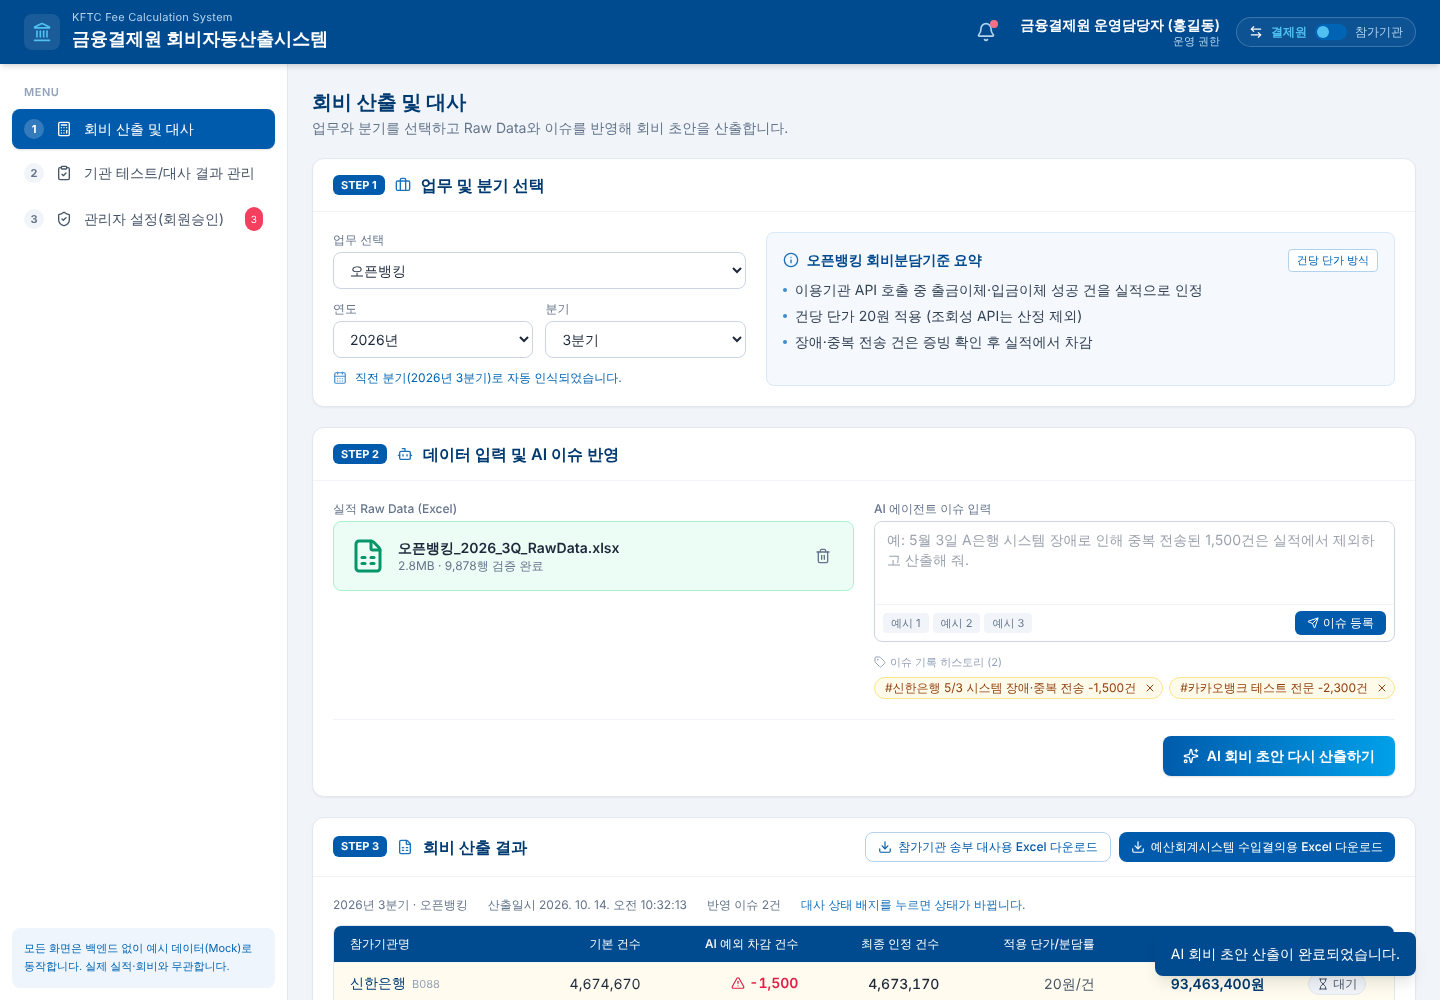
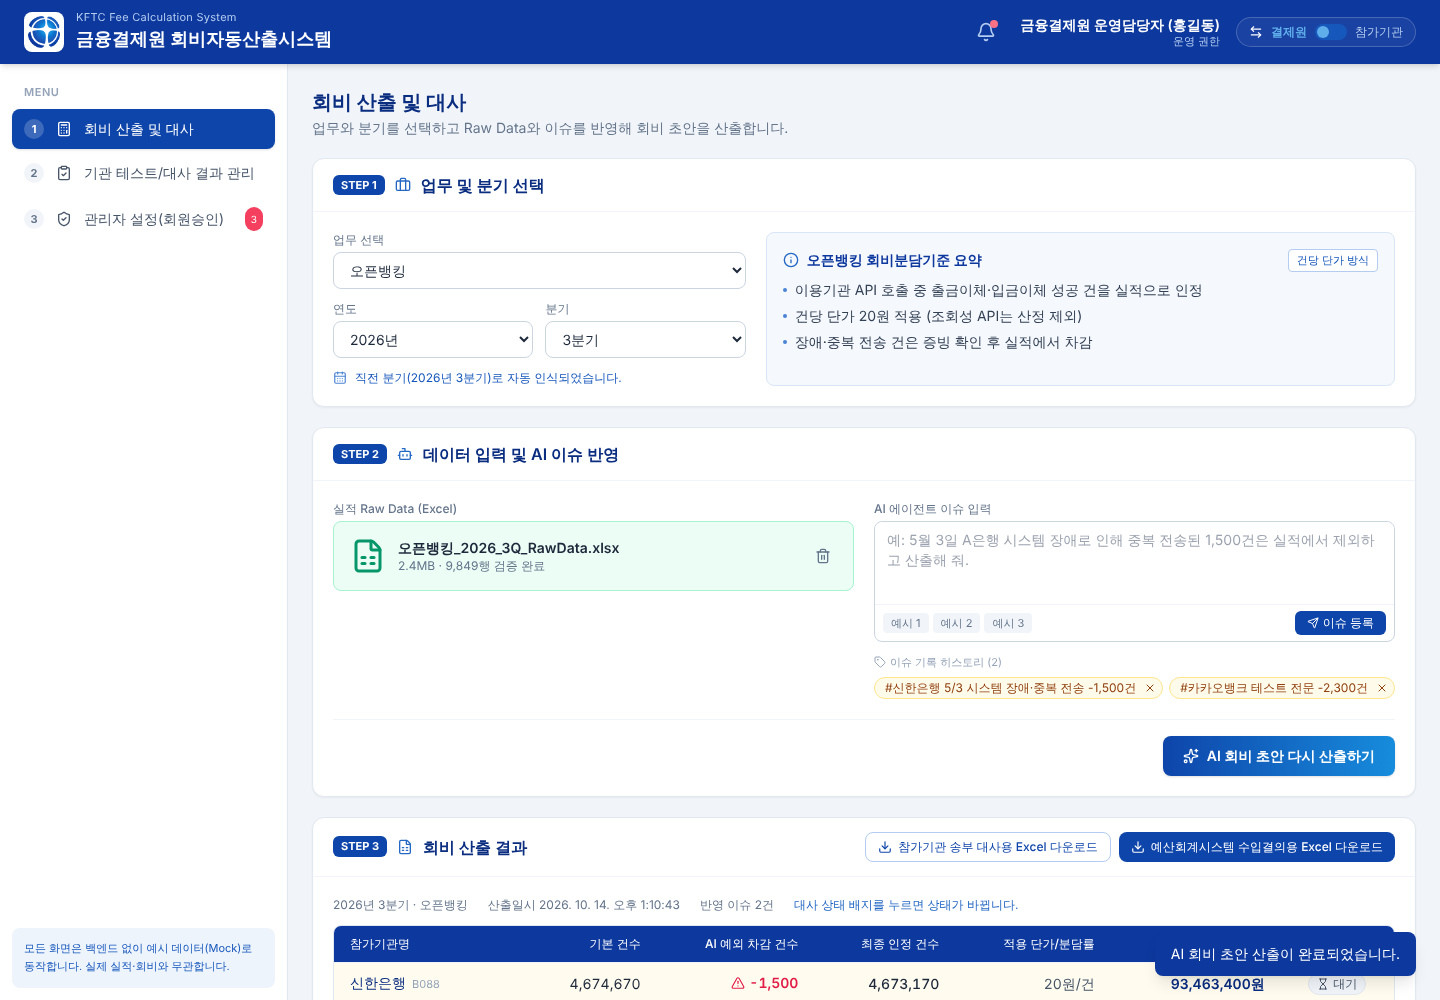
day01: 금융결제원 심벌마크를 사이트 로고로 적용하고 팔레트 보정
Claude-Session: https://claude.ai/code/session_01BFqJztsfpAHXakUP9Vofkb

Changed region(s): [[0.0, 0.0, 0.25, 0.062], [0.4375, 0.899, 0.7188, 0.93], [0.2812, 0.558, 0.375, 0.589]]

diff --git a/day01-gyeongsik-fee-calculator/tailwind.config.js b/day01-gyeongsik-fee-calculator/tailwind.config.js
@@ -4,29 +4,30 @@ export default {
   theme: {
     extend: {
       colors: {
-        // 금융결제원 CI 계열 색상. 주색(brand-700)과 보조색(accent-500)만 바꾸면 전체 화면에 반영된다.
+        // 금융결제원 CI 심벌마크(public/kftc-symbol.png)의 그라데이션에서 뽑은 색상.
+        // brand-700~800이 심벌의 짙은 블루, accent-500이 밝은 블루다.
         brand: {
-          50: '#eef5fc',
-          100: '#d9e9f7',
-          200: '#b3d2ee',
-          300: '#7fb2e0',
-          400: '#3f8ccf',
-          500: '#1a72bd',
-          600: '#0063b3',
-          700: '#005bac',
-          800: '#004a8f',
-          900: '#003a70',
-          950: '#002850',
+          50: '#eef4fc',
+          100: '#d9e6f8',
+          200: '#b3ccf0',
+          300: '#80a9e3',
+          400: '#4a84d4',
+          500: '#2468c4',
+          600: '#1657bb',
+          700: '#0e45aa',
+          800: '#0d389e',
+          900: '#0a2d80',
+          950: '#071f5c',
         },
         accent: {
-          50: '#e6f6fd',
-          100: '#c7ebfa',
-          200: '#8fd6f5',
-          300: '#4fc0ef',
-          400: '#1fb0ec',
-          500: '#00a0e9',
-          600: '#0086c4',
-          700: '#006b9c',
+          50: '#e8f3fc',
+          100: '#cbe5f8',
+          200: '#97caf1',
+          300: '#5fadea',
+          400: '#3399e2',
+          500: '#178cdc',
+          600: '#1274bd',
+          700: '#0e5c96',
         },
       },
       fontFamily: {

diff --git a/day01-gyeongsik-fee-calculator/src/components/Layout.jsx b/day01-gyeongsik-fee-calculator/src/components/Layout.jsx
@@ -1,4 +1,4 @@
-import { ArrowLeftRight, Bell, Calculator, ClipboardCheck, Landmark, ShieldCheck } from 'lucide-react';
+import { ArrowLeftRight, Bell, Calculator, ClipboardCheck, ShieldCheck } from 'lucide-react';
 
 export const MENUS = [
   { id: 'calc', label: '회비 산출 및 대사', icon: Calculator, roles: ['operator', 'institution'] },
@@ -11,8 +11,8 @@ export function Header({ user, onToggleRole }) {
   return (
     <header className="h-16 bg-brand-800 text-white flex items-center justify-between px-6 shadow-md z-10">
       <div className="flex items-center gap-3">
-        <div className="w-9 h-9 rounded-lg bg-white/10 flex items-center justify-center">
-          <Landmark className="w-5 h-5 text-accent-300" />
+        <div className="w-10 h-10 rounded-lg bg-white flex items-center justify-center shadow-sm">
+          <img src="kftc-symbol.png" alt="금융결제원 심벌마크" className="w-8 h-8" />
         </div>
         <div className="leading-tight">
           <p className="text-[11px] text-brand-200 tracking-wide">KFTC Fee Calculation System</p>

diff --git a/day01-gyeongsik-fee-calculator/index.html b/day01-gyeongsik-fee-calculator/index.html
@@ -4,6 +4,7 @@
     <meta charset="UTF-8" />
     <meta name="viewport" content="width=device-width, initial-scale=1.0" />
     <link rel="stylesheet" href="https://cdn.jsdelivr.net/gh/orioncactus/pretendard@v1.3.9/dist/web/static/pretendard.min.css" />
+    <link rel="icon" type="image/png" href="kftc-symbol.png" />
     <title>회비자동산출시스템</title>
   </head>
   <body class="bg-slate-100">

diff --git a/day01-gyeongsik-fee-calculator/README.md b/day01-gyeongsik-fee-calculator/README.md
@@ -31,8 +31,8 @@ npm run dev      # http://localhost:5173
 npm run build    # dist/ 에 정적 파일 생성
 ```
 
-## 색상
-금융결제원 CI 계열의 블루(`#005BAC`)를 주색, 스카이 블루(`#00A0E9`)를 보조색으로 씁니다. 공식 CI 가이드 수치를 확인하지 못한 추정값이라, 정확한 값은 `tailwind.config.js`의 `brand`·`accent` 팔레트만 바꾸면 전체 화면에 반영됩니다.
+## 색상·로고
+헤더 로고와 파비콘은 금융결제원 CI 심벌마크(`public/kftc-symbol.png`, 가이드 이미지에서 잘라 배경을 투명하게 처리)입니다. 색상은 심벌의 그라데이션에서 뽑았습니다. 짙은 블루 `#0E45AA`·`#0D389E`를 주색(`brand`), 밝은 블루 `#178CDC`를 보조색(`accent`)으로 쓰며 `tailwind.config.js`에서 관리합니다.
 
 ## 기술 스택
 Vite 5, React 18, Tailwind CSS 3, lucide-react, xlsx(SheetJS)

diff --git a/PROGRESS.md b/PROGRESS.md
@@ -19,6 +19,7 @@
 
 ## 세션 로그
 ### 2026-10-14 (경식)
+- 헤더 로고·파비콘을 금융결제원 CI 심벌마크로 교체하고, 팔레트를 심벌 색상(주색 #0E45AA, 보조색 #178CDC)으로 보정
 - 화면 색상을 금융결제원 CI 계열(주색 #005BAC, 보조색 #00A0E9, 추정값)로 변경. `tailwind.config.js`의 `brand`·`accent` 팔레트에서 관리
 - `day01-gyeongsik-fee-calculator/` 추가: Vite+React+Tailwind, 헤더 권한 토글(결제원↔참가기관), 회비 산출 3단계(업무·분기 선택 → Excel 업로드 시뮬레이션·AI 이슈 차감 → 결과 테이블·Excel 2종 다운로드), 테스트/대사 결과 관리, 회원승인
 ### 2026-10-13
